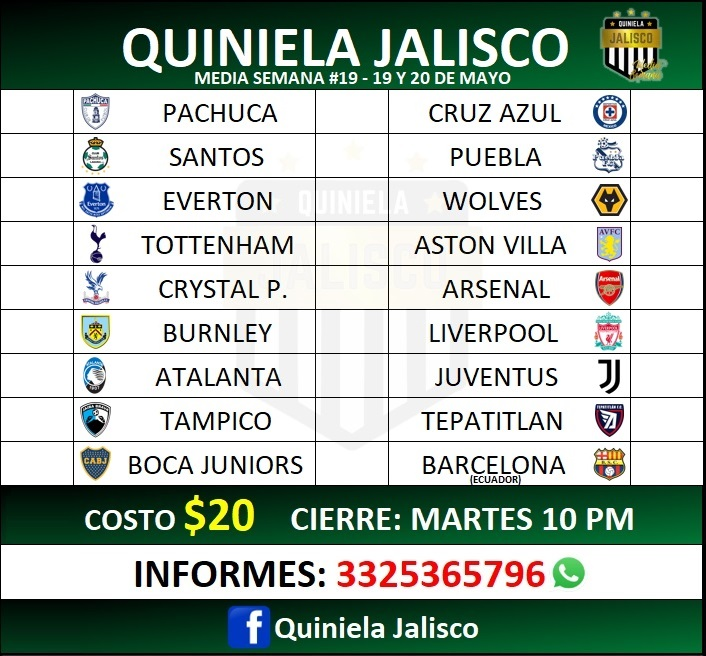
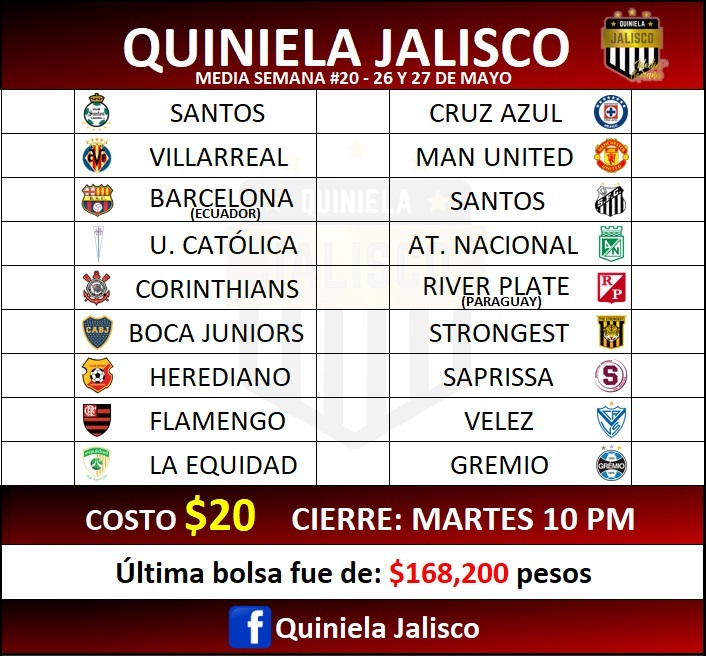
Media Semana #20

diff --git a/MediaSemana/stylesm.css b/MediaSemana/stylesm.css
@@ -89,8 +89,8 @@ h1{
     margin-top: 8%;
     border: solid 1px black;
     border-radius: 0 0 14px 14px;
-    background: -webkit-linear-gradient(0.04turn, rgb(0,0,0)  ,rgb(2,112,51) 80%);
-    background: linear-gradient(0.04turn, rgb(0,0,0)  ,rgb(2,112,51) 80%);
+    background: -webkit-linear-gradient(0.04turn, rgb(0,0,0)  ,rgb(181,0,0) 80%);
+    background: linear-gradient(0.04turn, rgb(0,0,0)  ,rgb(181,0,0) 80%);
     font-size: x-large;
 }
 
